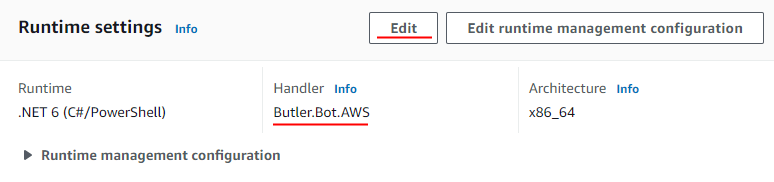
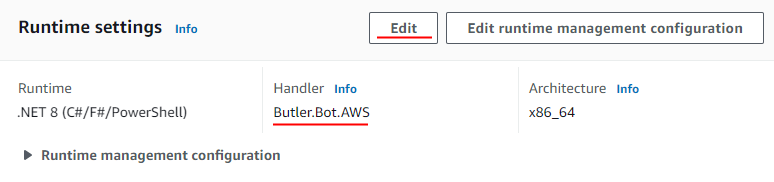
.net 8 upgrade (#2)
* Dotnet 8 upgrade

* Upgrade release pipeline

Changed region(s): [[0.0, 0.5769, 0.2481, 0.6593]]

diff --git a/Butler.Bot.Core.Tests/AdminGroup/AdminGroupMentionStrategyTests.cs b/Butler.Bot.Core.Tests/AdminGroup/AdminGroupMentionStrategyTests.cs
@@ -25,7 +25,7 @@ public class AdminGroupMentionStrategyTests
     [InlineData(null, "John", "Doe", "John Doe")]
     [InlineData(null, "Aleksandrina", "Buenaventura Wetherington", "Aleksandrina Buenaventura Weth...")]
     [InlineData(null, "Flag emoji", "at the end ------>\ud83c\udff4\udb40\udc67\udb40\udc62\udb40\udc65\udb40\udc6e\udb40\udc67\udb40\udc7f", "Flag emoji at the end ------>\ud83c\udff4\udb40\udc67\udb40\udc62\udb40\udc65\udb40\udc6e\udb40\udc67\udb40\udc7f")]
-    public void GetAdminMention(string userName, string firstName, string lastName, string expected)
+    public void GetAdminMention(string? userName, string firstName, string? lastName, string expected)
     {
         // Arrange
         var user = new User { Username = userName, FirstName = firstName, LastName = lastName };
@@ -42,7 +42,7 @@ public class AdminGroupMentionStrategyTests
     [InlineData(null, "John", null, "John")]
     [InlineData(null, "John", "Doe", "John Doe")]
     [InlineData("HollyFlower", "Aleksandrina", "Buenaventura Wetherington", "Aleksandrina Buenaventura Wetherington @HollyFlower")]
-    public void GetUserMention(string userName, string firstName, string lastName, string expected)
+    public void GetUserMention(string? userName, string firstName, string? lastName, string expected)
     {
         // Arrange
         var user = new User { Username = userName, FirstName = firstName, LastName = lastName };

diff --git a/Butler.Bot.Core.Tests/TargetGroup/TargetGroupMentionStrategyTests.cs b/Butler.Bot.Core.Tests/TargetGroup/TargetGroupMentionStrategyTests.cs
@@ -23,7 +23,7 @@ public class TargetGroupMentionStrategyTests
     [InlineData(262, null, "John", null, "<a href='tg://user?id=262'>John</a>")]
     [InlineData(364, null, "John", "Doe", "<a href='tg://user?id=364'>John Doe</a>")]
     [InlineData(465, null, "Aleksandrina", "Buenaventura Wetherington", "<a href='tg://user?id=465'>Aleksandrina Buenaventura Weth...</a>")]
-    public void GetUserMention(long id, string userName, string firstName, string lastName, string expected)
+    public void GetUserMention(long id, string? userName, string firstName, string? lastName, string expected)
     {
         // Arrange
         var user = new User { Id = id, Username = userName, FirstName = firstName, LastName = lastName };

diff --git a/Butler.Bot.Core/InlineStateException.cs b/Butler.Bot.Core/InlineStateException.cs
@@ -1,6 +1,4 @@
-using System.Runtime.Serialization;
-
-namespace Butler.Bot.Core;
+namespace Butler.Bot.Core;
 
 public class InlineStateException : Exception
 {
@@ -15,10 +13,5 @@ public class InlineStateException : Exception
     public InlineStateException(string message, Exception innerException)
       :  base(message, innerException)
     { }
-
-    protected InlineStateException(SerializationInfo info, StreamingContext context)
-       : base(info, context)
-    { }
-
 }
 

diff --git a/README.md b/README.md
@@ -32,7 +32,7 @@ Bot is not multitenant. At least for now. Each instance of the bot is configured
 Likely we know how to do it for free. Please see [detailed instructions](Docs/BotCreation.md).
 
 ## Technology
-Bot is written in C# using [.Net 6 LTS](https://dotnet.microsoft.com/en-us/download/dotnet/6.0). Code is fully managed and use [Telegram.Bot library](https://github.com/TelegramBots/Telegram.Bot) to interact with [Telegram Bot API](https://core.telegram.org/bots/api). 
+Bot is written in C# using [.Net 8 LTS](https://dotnet.microsoft.com/en-us/download/dotnet/8.0). Code is fully managed and use [Telegram.Bot library](https://github.com/TelegramBots/Telegram.Bot) to interact with [Telegram Bot API](https://core.telegram.org/bots/api). 
 
 ## Serverless
 Bot is originally designed to be serverless. It currently supports AWS and might be easy ported to any other cloud provider.
